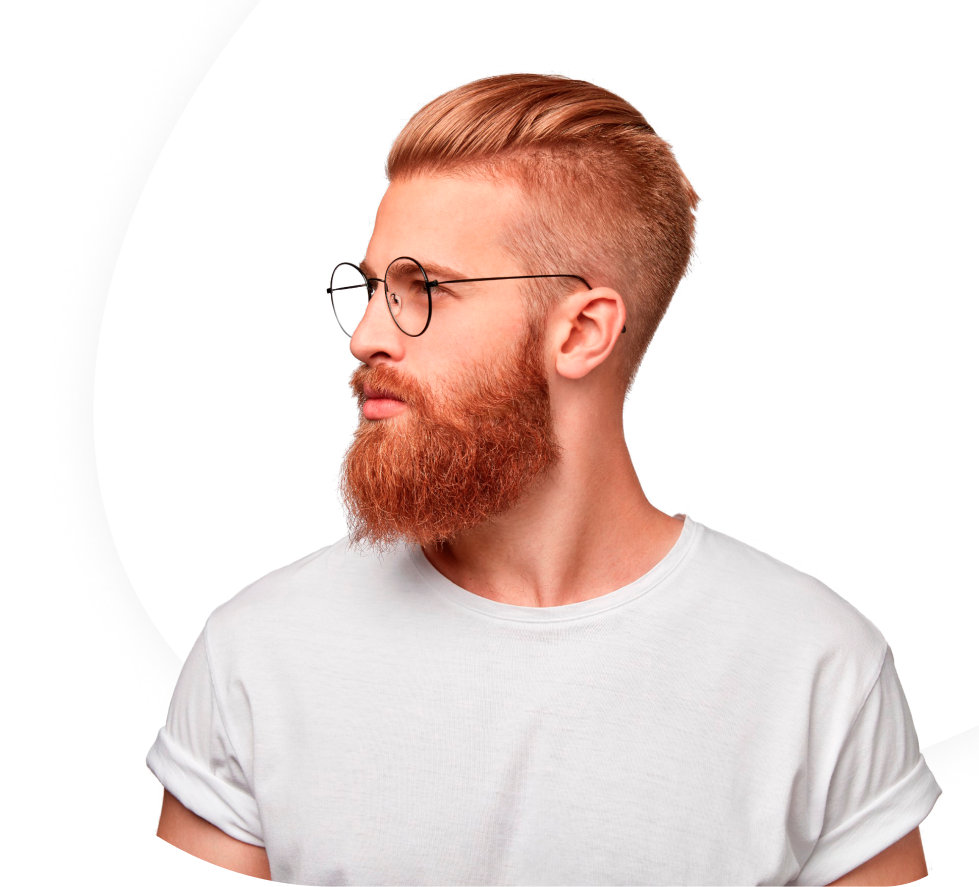
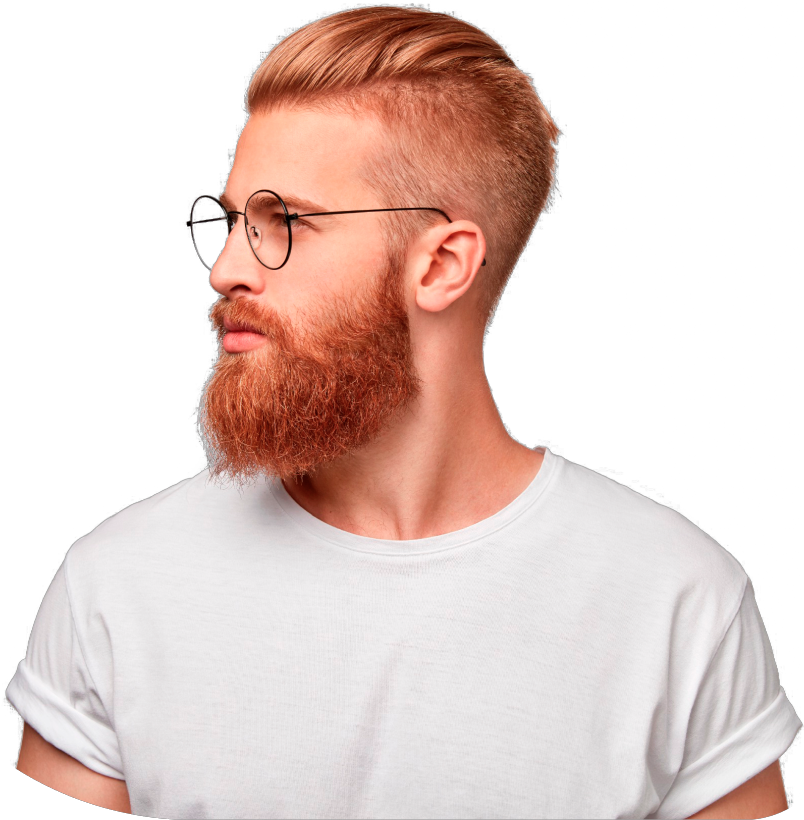
+ mobile adaptive for main block

diff --git a/src/components/main/styles.module.scss b/src/components/main/styles.module.scss
@@ -3,10 +3,22 @@
 }
 
 .main {
-  @apply h-screen flex flex-col justify-center;
+  @apply relative h-screen flex flex-col justify-center;
 
   .logo {
     @apply mb-6 max-w-[55%] z-10;
+
+    @media screen and (max-width: 768px) {
+      @apply max-w-full;
+    }
+  }
+
+  .man {
+    @apply absolute top-0 right-0 max-h-[98vh] w-auto z-0;
+  }
+
+  .elipse {
+    @apply absolute bottom-[10%] -right-[40%] -z-10;
   }
 
   .content {
@@ -16,12 +28,54 @@
       @apply w-2/5;
     }
 
-    .btn {
-      @apply px-7 hover:bg-regular-grey hover:text-white;
+    .buttons {
+      .btn {
+        @apply px-7 hover:bg-regular-grey hover:text-white;
+
+        &.callBtn {
+          @apply hidden;
+        }
+      }
     }
   }
-}
 
-.man {
-  @apply absolute top-0 right-0 max-h-[98vh] w-auto z-0;
+  @media screen and (max-width: 768px) {
+    @apply justify-start py-16;
+
+    .logo {
+      @apply max-w-full mb-4;
+    }
+
+    .man {
+      @apply relative mb-5;
+    }
+
+    .elipse {
+      @apply top-0 left-6 h-full;
+    }
+
+    .content {
+      @apply px-0 gap-4;
+
+      .text {
+        @apply w-full text-center;
+      }
+
+      .buttons {
+        @apply flex gap-2 justify-center;
+
+        .btn {
+          @apply px-4 bg-regular-grey text-white;
+
+          &.callBtn {
+            @apply block;
+          }
+        }
+      }
+
+      .address {
+        @apply hidden;
+      }
+    }
+  }
 }

diff --git a/src/components/main/main.tsx b/src/components/main/main.tsx
@@ -7,6 +7,8 @@ import { Header } from "./components/header/header";
 import { AddressSelect, Logo } from "./components/components";
 
 import man from "~/../public/images/home-man.png";
+import elipse from "~/../public/svg/ellipse-home.svg";
+
 import styles from "./styles.module.scss";
 
 const Main: React.FC<BaseProps> = ({ className = "" }) => {
@@ -17,16 +19,26 @@ const Main: React.FC<BaseProps> = ({ className = "" }) => {
       <Container className={styles.main}>
         <Logo className={styles.logo} />
 
+        <Image src={man} alt="Adult man" className={styles.man} />
+        <Image src={elipse} alt="" className={styles.elipse} />
+
         <div className={styles.content}>
           <p className={styles.text}>{AppSubtitle.MAIN}</p>
 
-          <Button title={ButtonTitle.ONLINE_ENTRY} className={styles.btn} />
+          <div className={styles.buttons}>
+            <Button
+              title={ButtonTitle.ONLINE_ENTRY}
+              className={`${styles.btn} ${styles.entryBtn}`}
+            />
+            <Button
+              title={ButtonTitle.CALL}
+              className={`${styles.btn} ${styles.callBtn}`}
+            />
+          </div>
 
-          <AddressSelect />
+          <AddressSelect className={styles.address} />
         </div>
       </Container>
-
-      <Image src={man} alt="Adult man" className={styles.man} />
     </div>
   );
 };

diff --git a/src/components/button/button.tsx b/src/components/button/button.tsx
@@ -1,6 +1,8 @@
 import { ButtonTitle } from "~/common/enums/enums";
 import { BaseProps } from "~/common/interfaces/interfaces";
 
+import styles from "./styles.module.scss";
+
 type colors = "regular-grey" | "white" | "transparent";
 
 interface Props extends BaseProps {
@@ -19,10 +21,7 @@ const Button: React.FC<Props> = ({
 }) => {
   return (
     <button
-      className={`transition ease-in-out duration-200 
-                  p-3 w-max 
-                  border border-${borderColor} text-${textColor} bg-${bgColor}
-                  ${className}`}
+      className={`${styles.btn} border-${borderColor} text-${textColor} bg-${bgColor} ${className}`}
     >
       {title}
     </button>

diff --git a/src/app/globals.scss b/src/app/globals.scss
@@ -12,7 +12,7 @@ html {
 }
 
 body {
-  @apply text-regular-grey text-[1.25rem];
+  @apply text-regular-grey text-[1.25rem] overflow-x-hidden;
 
   &::before {
     @apply absolute top-0 right-0 bottom-0 left-0 z-0 opacity-[0.03];
@@ -22,5 +22,9 @@ body {
 
   @media screen and (max-width: 768px) {
     @apply text-[0.625rem];
+
+    &::before {
+      background: none;
+    }
   }
 }

diff --git a/src/common/enums/components/button-title.enum.ts b/src/common/enums/components/button-title.enum.ts
@@ -1,6 +1,7 @@
 enum ButtonTitle {
   ONLINE_ENTRY = "Онлайн-запис",
   REQUEST_CALL = "Замовити дзвінок",
+  CALL = "Зателефонувати",
 }
 
 export { ButtonTitle };

diff --git a/src/components/main/components/header/styles.module.scss b/src/components/main/components/header/styles.module.scss
@@ -2,7 +2,7 @@
   @apply transition ease-in-out duration-300 py-6 z-50;
 
   @media screen and (max-width: 768px) {
-    @apply py-2;
+    @apply py-2 bg-white drop-shadow-md;
   }
 }
 

diff --git a/src/components/button/styles.module.scss b/src/components/button/styles.module.scss
@@ -1,0 +1,7 @@
+.btn {
+  @apply transition ease-in-out duration-200 p-3 w-max border;
+
+  @media screen and (max-width: 768px) {
+    @apply p-2;
+  }
+}
